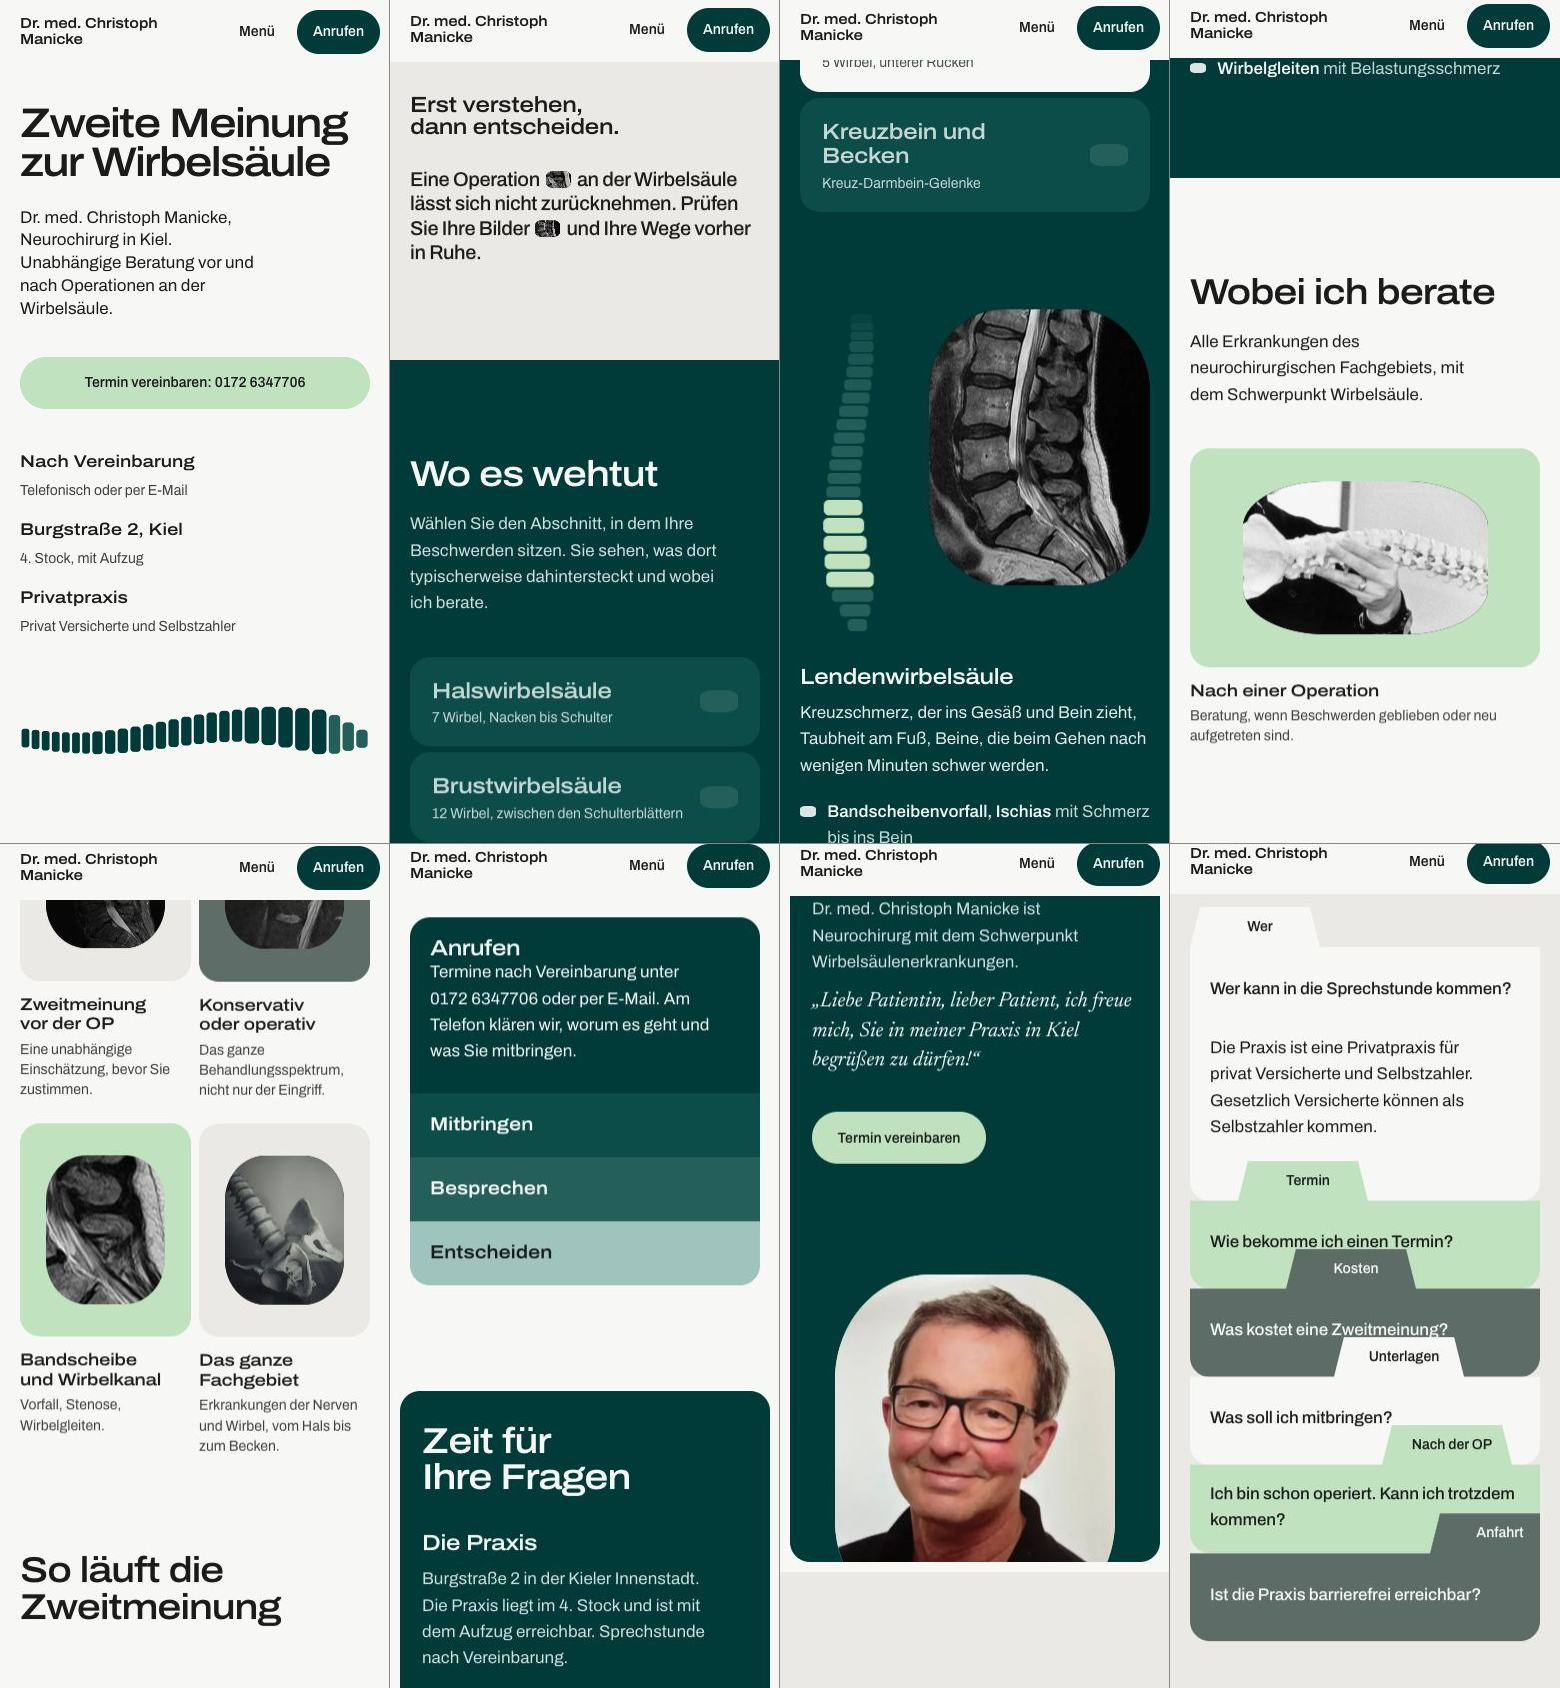
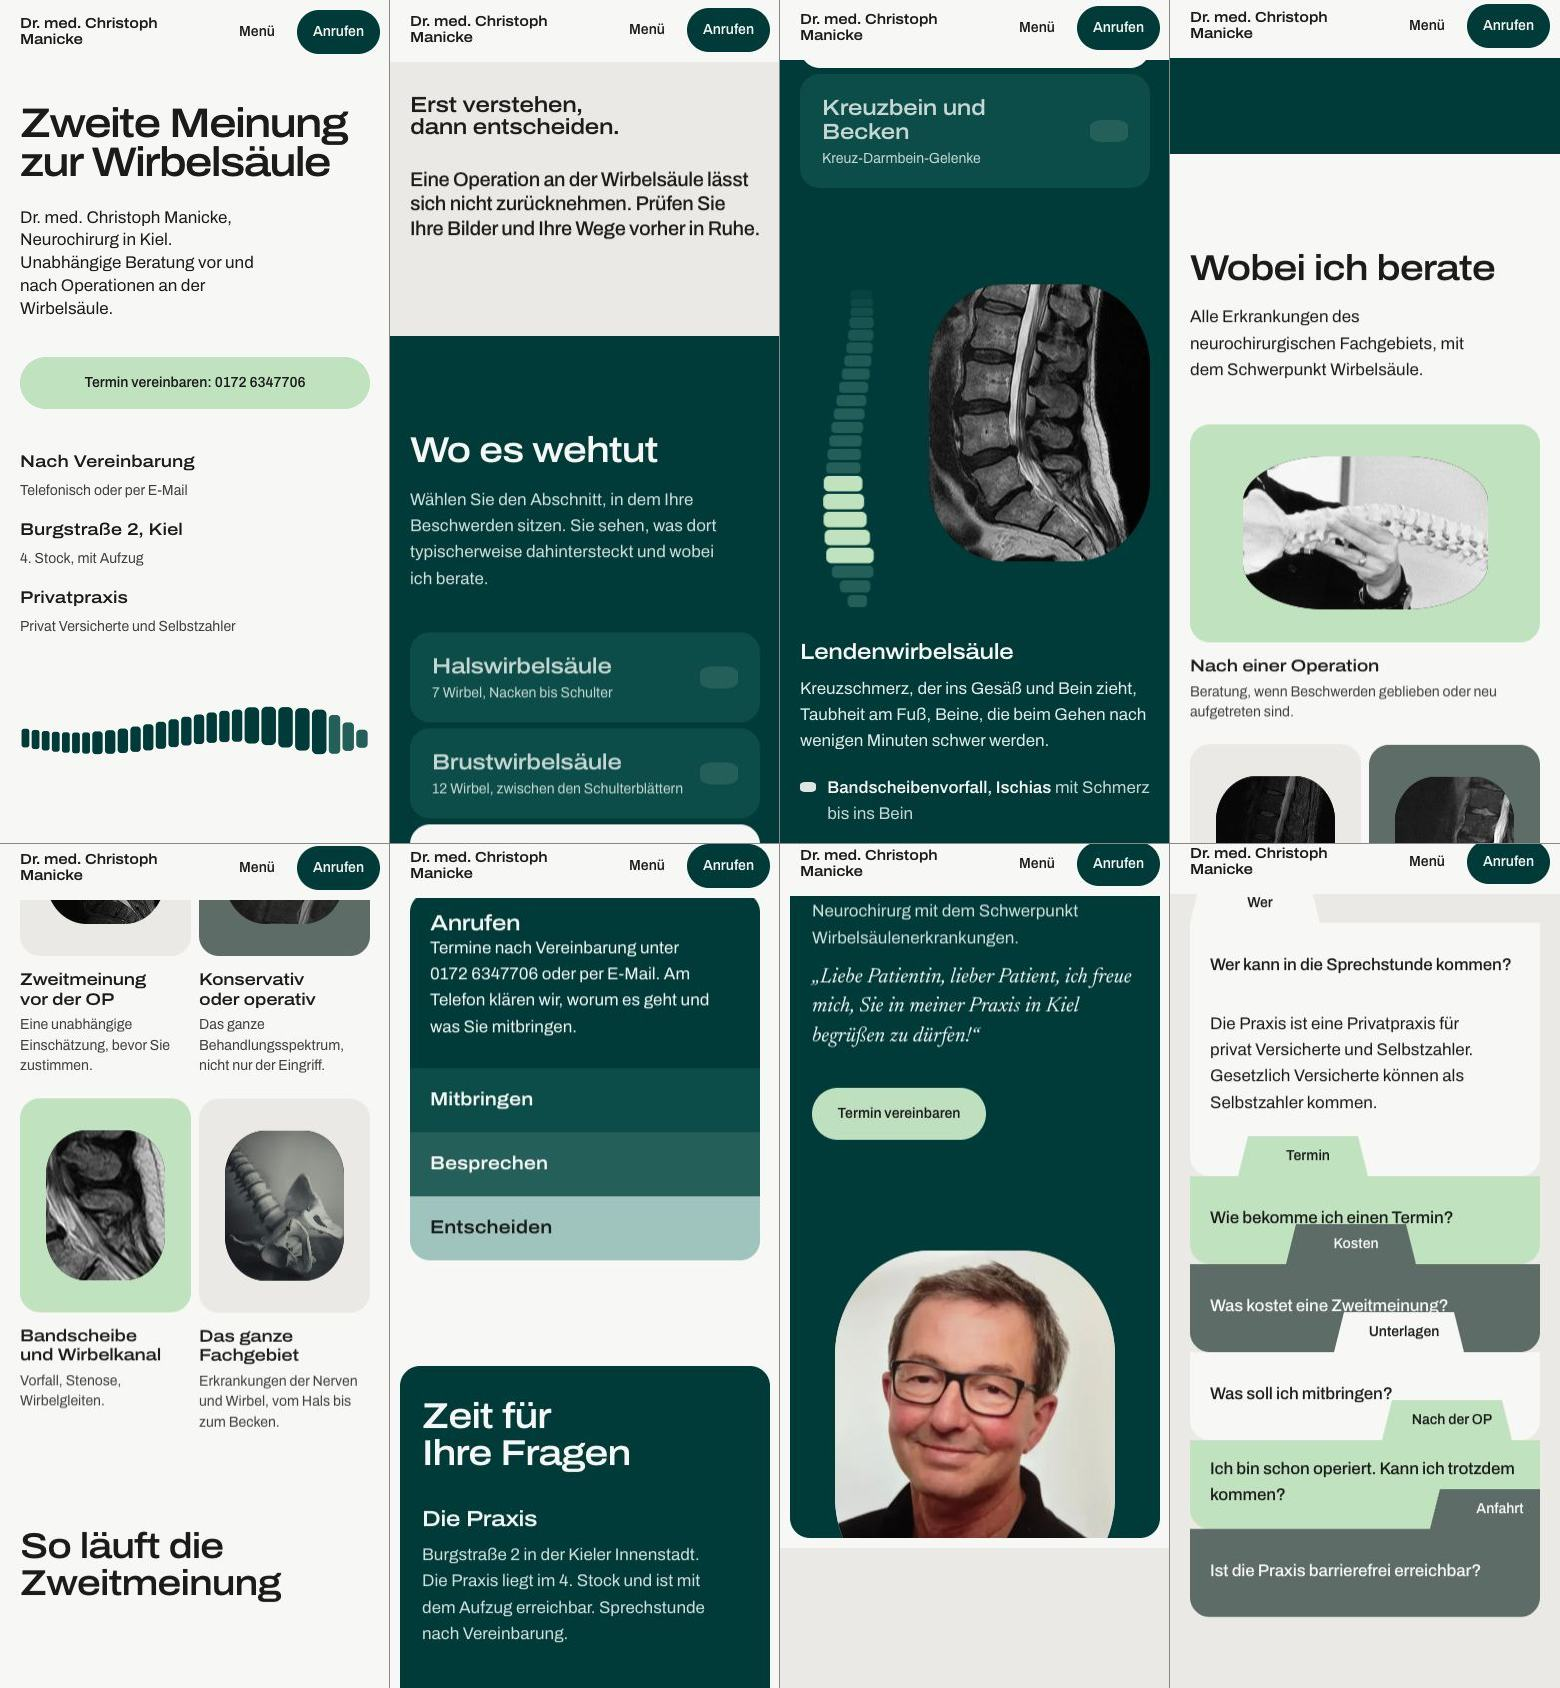
added taste

diff --git a/index.html b/index.html
@@ -113,12 +113,10 @@ p { max-width: 62ch; text-wrap: pretty; }
 .hero-spine .v, .hero-spine-h .v { fill: var(--foerde); }
 .hero-spine .seg[data-region="isg"] .v, .hero-spine-h .seg[data-region="isg"] .v { fill: var(--foerde-3); }
 
-/* ---------- intro: statement with inline frames ---------- */
+/* ---------- intro: one statement ---------- */
 .intro { background: var(--sand); padding: 22vh var(--margin); text-align: center; }
 .intro h2 { font-size: var(--step-lead); letter-spacing: -0.02em; }
 .statement { margin: 28px auto 0; max-width: 26em; font-size: var(--step-lead); line-height: 1.22; font-weight: 520; letter-spacing: -0.02em; }
-.frame { display: inline-block; height: 0.85em; width: 1.25em; vertical-align: -0.1em; margin: 0 0.12em; border-radius: var(--vertebra); overflow: hidden; background: #000; }
-.frame img { width: 100%; height: 100%; object-fit: cover; }
 
 /* ---------- Wo es wehtut: index with preview ---------- */
 .where { background: var(--foerde); color: var(--papier); padding: clamp(6rem, 11vw, 10rem) var(--margin); }
@@ -297,7 +295,6 @@ p { max-width: 62ch; text-wrap: pretty; }
 
   .intro { padding: 96px var(--margin); text-align: left; }
   .statement { margin-left: 0; font-size: 1.25rem; }
-  .statement .frame:last-of-type { display: none; }
 
   .where { padding-block: 96px; }
   .preview { grid-template-columns: 30% 1fr; }
@@ -395,7 +392,7 @@ p { max-width: 62ch; text-wrap: pretty; }
 
   <section class="intro" aria-labelledby="intro-title">
     <h2 id="intro-title" data-reveal>Erst verstehen, dann entscheiden.</h2>
-    <p class="statement" data-reveal style="--i:1">Eine Operation <span class="frame"><img src="assets/v2/mri-t2-disc.webp" width="800" height="800" alt="" loading="lazy"></span> an der Wirbelsäule lässt sich nicht zurücknehmen. Prüfen Sie Ihre Bilder <span class="frame"><img src="assets/v2/mri-t2-lumbar.webp" width="620" height="760" alt="" loading="lazy"></span> und Ihre Wege <span class="frame"><img src="assets/v3/beach-walk.webp" width="1000" height="1376" alt="" loading="lazy"></span> vorher in Ruhe.</p>
+    <p class="statement" data-reveal style="--i:1">Eine Operation an der Wirbelsäule lässt sich nicht zurücknehmen. Prüfen Sie Ihre Bilder und Ihre Wege vorher in Ruhe.</p>
   </section>
 
   <section class="where" id="wo" aria-labelledby="where-title">
